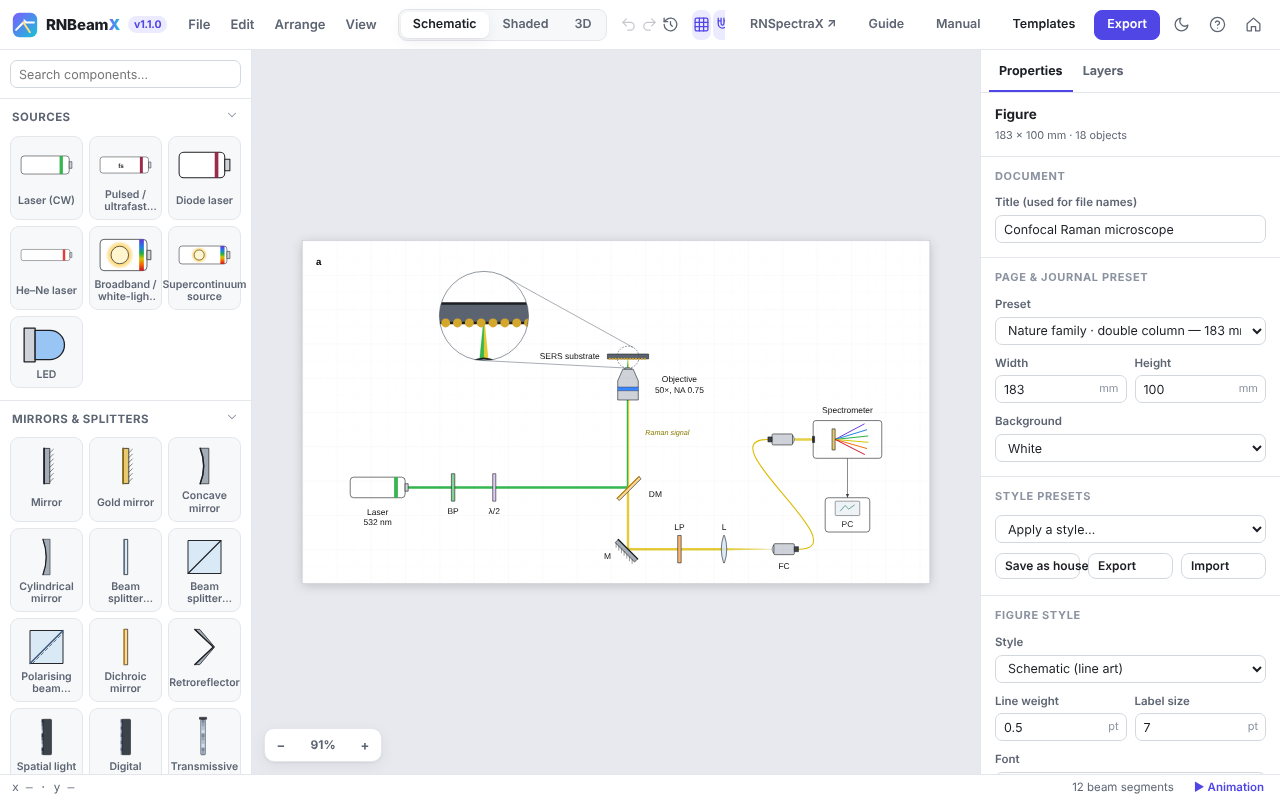
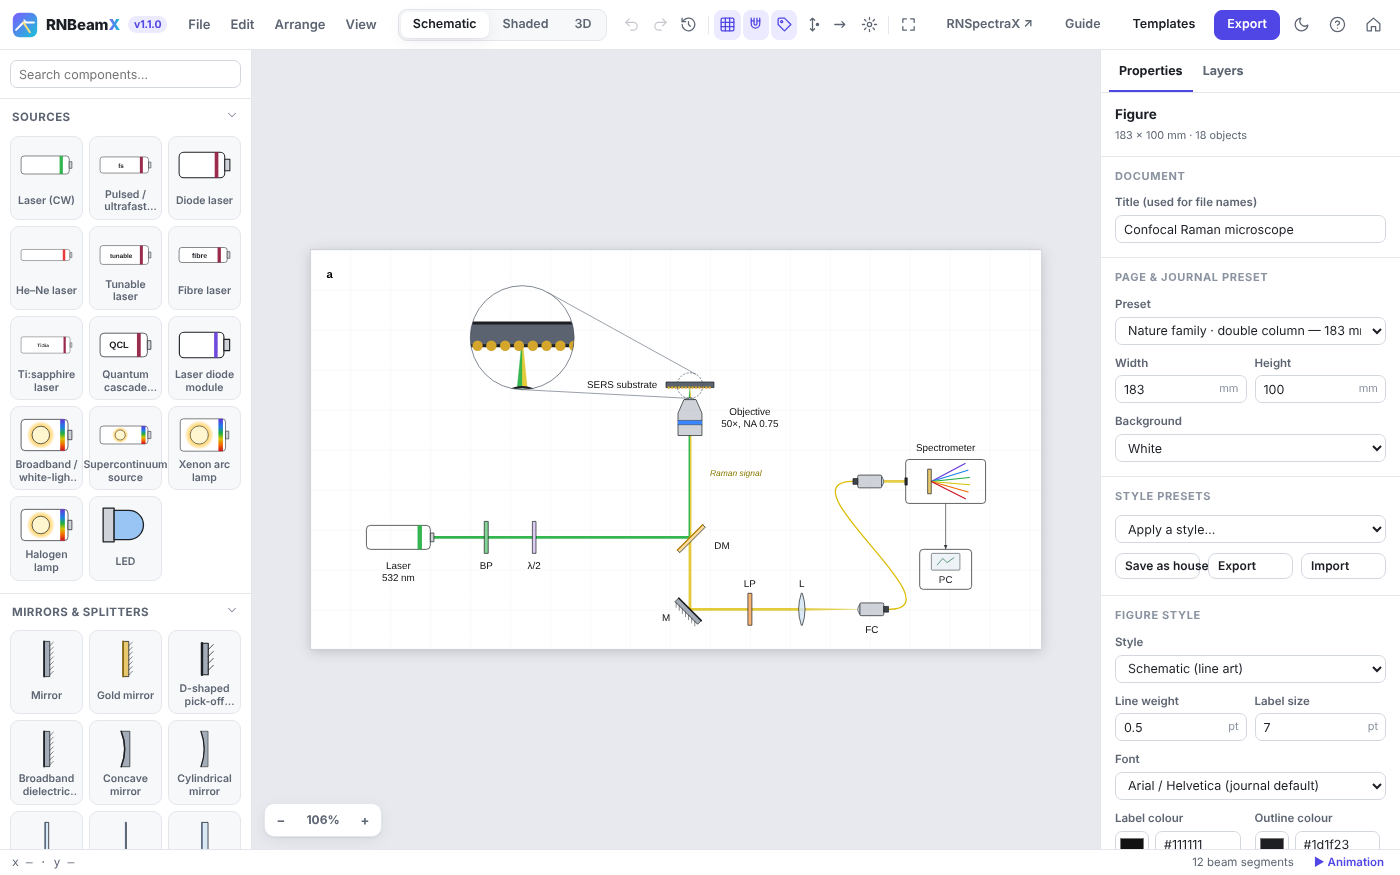
Guide: bright / dark mode switch (remembered, shared with the app); fresh workspace screenshot

diff --git a/index.html b/index.html
@@ -15,8 +15,8 @@
 (function(){try{var t=localStorage.getItem('rnbx_theme');t=t?JSON.parse(t):null;
 if(t==='dark'||(!t&&window.matchMedia&&matchMedia('(prefers-color-scheme: dark)').matches))document.documentElement.setAttribute('data-theme','dark');}catch(e){}})();
 </script>
-<link href="css/style.css?v=202610271038" rel="stylesheet"/>
-<link href="css/layout.css?v=202610271038" rel="stylesheet"/>
+<link href="css/style.css?v=202610271050" rel="stylesheet"/>
+<link href="css/layout.css?v=202610271050" rel="stylesheet"/>
 </head>
 <body>
 <div id="app">
@@ -111,49 +111,49 @@ if(t==='dark'||(!t&&window.matchMedia&&matchMedia('(prefers-color-scheme: dark)'
 <div id="modalRoot"></div>
 <div id="toastRoot" aria-live="polite"></div>
 
-<script src="js/config.js?v=202610271038"></script>
-<script src="js/core/utils.js?v=202610271038"></script>
-<script src="js/core/state.js?v=202610271038"></script>
-<script src="js/engine/optics.js?v=202610271038"></script>
-<script src="js/engine/nkdata.js?v=202610271038"></script>
-<script src="js/engine/thinfilm.js?v=202610271038"></script>
-<script src="js/engine/rcwa.js?v=202610271038"></script>
-<script src="js/engine/tracer.js?v=202610271038"></script>
-<script src="js/components/library.js?v=202610271038"></script>
-<script src="js/components/sources.js?v=202610271038"></script>
-<script src="js/components/optics.js?v=202610271038"></script>
-<script src="js/components/detectors.js?v=202610271038"></script>
-<script src="js/components/vertical.js?v=202610271038"></script>
-<script src="js/components/photonics.js?v=202610271038"></script>
-<script src="js/components/optomechanics.js?v=202610271038"></script>
-<script src="js/components/plot.js?v=202610271038"></script>
-<script src="js/components/illustration.js?v=202610271038"></script>
-<script src="js/components/nanostructures.js?v=202610271038"></script>
-<script src="js/components/shapes.js?v=202610271038"></script>
-<script src="js/components/groups.js?v=202610271038"></script>
-<script src="js/components/annotations.js?v=202610271038"></script>
-<script src="js/render/text.js?v=202610271038"></script>
-<script src="js/render/defs.js?v=202610271038"></script>
-<script src="js/render/beams.js?v=202610271038"></script>
-<script src="js/render/renderer.js?v=202610271038"></script>
-<script src="js/render/renderer3d.js?v=202610271038"></script>
-<script src="js/render/labels.js?v=202610271038"></script>
-<script src="js/anim/animation.js?v=202610271038"></script>
-<script src="js/io/project.js?v=202610271038"></script>
-<script src="js/io/export.js?v=202610271038"></script>
-<script src="js/io/share.js?v=202610271038"></script>
-<script src="js/io/templates.js?v=202610271038"></script>
-<script src="js/io/styles.js?v=202610271038"></script>
-<script src="js/ui/dom.js?v=202610271038"></script>
-<script src="js/ui/canvas.js?v=202610271038"></script>
-<script src="js/ui/palette.js?v=202610271038"></script>
-<script src="js/ui/inspector.js?v=202610271038"></script>
-<script src="js/ui/layers.js?v=202610271038"></script>
-<script src="js/ui/layout.js?v=202610271038"></script>
-<script src="js/ui/timeline.js?v=202610271038"></script>
-<script src="js/ui/dialogs.js?v=202610271038"></script>
-<script src="js/ui/menus.js?v=202610271038"></script>
-<script src="js/app.js?v=202610271038"></script>
+<script src="js/config.js?v=202610271050"></script>
+<script src="js/core/utils.js?v=202610271050"></script>
+<script src="js/core/state.js?v=202610271050"></script>
+<script src="js/engine/optics.js?v=202610271050"></script>
+<script src="js/engine/nkdata.js?v=202610271050"></script>
+<script src="js/engine/thinfilm.js?v=202610271050"></script>
+<script src="js/engine/rcwa.js?v=202610271050"></script>
+<script src="js/engine/tracer.js?v=202610271050"></script>
+<script src="js/components/library.js?v=202610271050"></script>
+<script src="js/components/sources.js?v=202610271050"></script>
+<script src="js/components/optics.js?v=202610271050"></script>
+<script src="js/components/detectors.js?v=202610271050"></script>
+<script src="js/components/vertical.js?v=202610271050"></script>
+<script src="js/components/photonics.js?v=202610271050"></script>
+<script src="js/components/optomechanics.js?v=202610271050"></script>
+<script src="js/components/plot.js?v=202610271050"></script>
+<script src="js/components/illustration.js?v=202610271050"></script>
+<script src="js/components/nanostructures.js?v=202610271050"></script>
+<script src="js/components/shapes.js?v=202610271050"></script>
+<script src="js/components/groups.js?v=202610271050"></script>
+<script src="js/components/annotations.js?v=202610271050"></script>
+<script src="js/render/text.js?v=202610271050"></script>
+<script src="js/render/defs.js?v=202610271050"></script>
+<script src="js/render/beams.js?v=202610271050"></script>
+<script src="js/render/renderer.js?v=202610271050"></script>
+<script src="js/render/renderer3d.js?v=202610271050"></script>
+<script src="js/render/labels.js?v=202610271050"></script>
+<script src="js/anim/animation.js?v=202610271050"></script>
+<script src="js/io/project.js?v=202610271050"></script>
+<script src="js/io/export.js?v=202610271050"></script>
+<script src="js/io/share.js?v=202610271050"></script>
+<script src="js/io/templates.js?v=202610271050"></script>
+<script src="js/io/styles.js?v=202610271050"></script>
+<script src="js/ui/dom.js?v=202610271050"></script>
+<script src="js/ui/canvas.js?v=202610271050"></script>
+<script src="js/ui/palette.js?v=202610271050"></script>
+<script src="js/ui/inspector.js?v=202610271050"></script>
+<script src="js/ui/layers.js?v=202610271050"></script>
+<script src="js/ui/layout.js?v=202610271050"></script>
+<script src="js/ui/timeline.js?v=202610271050"></script>
+<script src="js/ui/dialogs.js?v=202610271050"></script>
+<script src="js/ui/menus.js?v=202610271050"></script>
+<script src="js/app.js?v=202610271050"></script>
 <!-- Anonymous visit and feature-usage counts (GoatCounter: no cookies, no personal data, never any figure content) -->
 <script>window.goatcounter = { path: function (p) { return p.replace(/index\.html$/, ''); } };</script>
 <script data-goatcounter="https://rakeshnaik.goatcounter.com/count" async src="https://gc.zgo.at/count.js"></script>

diff --git a/guide.html b/guide.html
@@ -6,6 +6,11 @@
 <title>RNBeamX Guide</title>
 <meta name="description" content="Illustrated guide to RNBeamX, the web-based optical setup and scientific figure designer.">
 <link rel="icon" href="assets/favicon.svg">
+<script>
+/* saved theme (shared with the app) applied before first paint */
+(function(){try{var t=localStorage.getItem('rnbx_theme');t=t?JSON.parse(t):null;
+if(t==='dark'||t==='light')document.documentElement.setAttribute('data-theme',t);}catch(e){}})();
+</script>
 <style>
 :root {
   --bg: #f6f7fb; --card: #ffffff; --ink: #1b1e27; --muted: #5d6475; --line: #e2e5ee;
@@ -22,7 +27,11 @@ header.top { position: sticky; top: 0; z-index: 5; background: color-mix(in srgb
 .bar { max-width: 1120px; margin: 0 auto; padding: 10px 16px; display: flex; align-items: center; gap: 14px; flex-wrap: wrap; }
 .brand { font-weight: 800; font-size: 17px; text-decoration: none; color: var(--ink); display: flex; align-items: center; gap: 8px; }
 .brand img { width: 26px; height: 26px; }
-.bar nav { display: flex; gap: 4px; flex-wrap: wrap; margin-left: auto; }
+.theme-switch { order: 1; margin-left: auto; display: inline-flex; border: 1px solid var(--line); border-radius: 9px; overflow: hidden; flex: none; }
+.theme-switch button { border: 0; background: transparent; color: var(--muted); font: 600 13px/1 inherit; font-family: inherit; padding: 7px 10px; cursor: pointer; display: inline-flex; align-items: center; gap: 5px; }
+.theme-switch button[aria-pressed="true"] { background: var(--accent-soft); color: var(--accent); }
+.theme-switch svg { width: 15px; height: 15px; }
+.bar nav { order: 2; flex-basis: 100%; display: flex; gap: 4px; flex-wrap: wrap; margin: 0 0 0 -9px; }
 .bar nav a { text-decoration: none; color: var(--muted); font-weight: 600; font-size: 13.5px; padding: 5px 9px; border-radius: 7px; }
 .bar nav a:hover { background: var(--accent-soft); color: var(--accent); }
 .btn { display: inline-block; background: var(--accent); color: #fff !important; text-decoration: none; font-weight: 700; padding: 9px 16px; border-radius: 9px; }
@@ -70,6 +79,10 @@ footer .bar { padding: 20px 16px; }
       <a href="#start">Quick start</a><a href="#build">Beams</a><a href="#blocks">Building blocks</a><a href="#illustration">Illustration parts</a><a href="#optomech">Optomechanics</a><a href="#rays">Ray diagrams</a><a href="#response">Calculated spectra</a><a href="#styles">Styles</a>
       <a href="#data">Panels &amp; data</a><a href="#layout">Groups &amp; layout</a><a href="#export">Export</a><a href="#reset">Reset &amp; undo</a><a href="#keys">Shortcuts</a>
     </nav>
+    <div class="theme-switch" role="group" aria-label="Colour theme">
+      <button type="button" data-set-theme="light" aria-pressed="false" title="Bright mode"><svg viewBox="0 0 24 24" fill="none" stroke="currentColor" stroke-width="2" stroke-linecap="round"><circle cx="12" cy="12" r="4"/><path d="M12 2v2M12 20v2M4.9 4.9l1.4 1.4M17.7 17.7l1.4 1.4M2 12h2M20 12h2M4.9 19.1l1.4-1.4M17.7 6.3l1.4-1.4"/></svg>Bright</button>
+      <button type="button" data-set-theme="dark" aria-pressed="false" title="Dark mode"><svg viewBox="0 0 24 24" fill="none" stroke="currentColor" stroke-width="2" stroke-linecap="round" stroke-linejoin="round"><path d="M21 12.8A9 9 0 1 1 11.2 3a7 7 0 0 0 9.8 9.8z"/></svg>Dark</button>
+    </div>
   </div>
 </header>
 
@@ -254,6 +267,17 @@ footer .bar { padding: 20px 16px; }
     .then(function (r) { return r.ok ? r.json() : Promise.reject(r.status); })
     .then(function (d) { if (d && d.count) { el.querySelector('[data-count]').textContent = d.count; el.hidden = false; } })
     .catch(function () {});
+})();
+</script>
+<script>
+/* bright / dark switch: remembered, and shared with the app */
+(function () {
+  var root = document.documentElement, btns = document.querySelectorAll('[data-set-theme]');
+  var current = function () { var t = root.getAttribute('data-theme'); return t || (window.matchMedia && matchMedia('(prefers-color-scheme: dark)').matches ? 'dark' : 'light'); };
+  var show = function () { var c = current(); btns.forEach(function (b) { b.setAttribute('aria-pressed', b.getAttribute('data-set-theme') === c ? 'true' : 'false'); }); };
+  btns.forEach(function (b) { b.addEventListener('click', function () { var t = b.getAttribute('data-set-theme'); root.setAttribute('data-theme', t); try { localStorage.setItem('rnbx_theme', JSON.stringify(t)); } catch (e) {} show(); }); });
+  if (window.matchMedia) { var mq = matchMedia('(prefers-color-scheme: dark)'); if (mq.addEventListener) mq.addEventListener('change', show); }
+  show();
 })();
 </script>
 </body>
